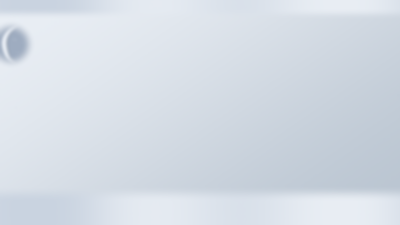
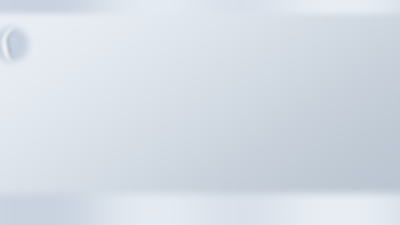
Keep pass 4's edge-independent fixes: crescent shoulder, pill fill, hover lift
The crescent gains 6 px through its lower third, its principal star grows to
22 px at full opacity, and the light sky core is #B4C2D4 at 70%. The search
button leaves its fill to the 14 px pill. Menus and dropdowns lift their rim
on hover; a glass dialog's shadow margin is click-through and its underlay
skips the foreground layer; the toast rail sits inside the well. The contrast
audit checks muted text at rest, hover, selected and pressed.

Pass 4's hand-tuned edge numbers are left out: the glass shader replaces them.

Changed region(s): [[0.0, 0.1244, 0.09, 0.28]]

diff --git a/scripts/gen_glass_assets.py b/scripts/gen_glass_assets.py
@@ -36,7 +36,10 @@ INNER = (106.5, 177.5, 76.5)
 TILT, BOX = 12.0, (8.0, 105.0, 74.0, 145.0)
 # Two four-point stars on the open side (tip to tip, peak opacity dark / light): the
 # principal one clearly larger, both with sharp tips.
-SPARKLES = [(58.0, 158.0, 16.0, 0.86, 0.95), (71.0, 210.0, 9.0, 0.64, 0.76)]
+SPARKLES = [(58.0, 158.0, 22.0, 1.0, 1.0), (71.0, 210.0, 9.0, 0.64, 0.76)]
+# The lower shoulder: up to 6 px more band on the concave side through the lower third,
+# tapering to nothing at both tips.
+LOWER_SHOULDER = 6.0
 # Fourteen point stars, 1-2 px: eight near the crescent, six in exposed perimeter space
 # (the left strip below the crescent, the top reveal, the right reveal). Clear of labels.
 NEAR = [(22, 84), (44, 96), (95, 128), (88, 170), (54, 252), (94, 236), (58, 270), (16, 284)]
@@ -44,7 +47,7 @@ PERIMETER = [(30, 340), (62, 430), (20, 540), (1594, 150), (1594, 380), (1594, 6
 COLORS = {
     "dark": dict(space="#080A0F", body="#B9C7D8", crest="#F2F6FC", inner="#334257",
                  star="#F2F6FC", far_star="#F2F6FC", alpha=(0.28, 0.52), tone=("#101721", "#374451")),
-    "light": dict(sky="#9EACC0", body="#EDF3FB", crest="#FFFFFF", inner="#657284",
+    "light": dict(sky="#B4C2D4", sky_max=0.70, body="#EDF3FB", crest="#FFFFFF", inner="#657284",
                   star="#FFFFFF", far_star="#4A5463", alpha=(0.44, 0.70), tone=("#E9EEF4", "#C9D3E0")),
 }
 
@@ -89,7 +92,11 @@ def fields(x, y):
     dx, dy = x - px, y - py
     sx = px + dx * np.cos(a) - dy * np.sin(a)
     sy = py + dx * np.sin(a) + dy * np.cos(a)
-    return orad - np.hypot(sx - ox, sy - oy), np.hypot(sx - ix, sy - iy) - irad
+    # Fuller through the lower third: the inner (shadow) disc gives way there, most at about
+    # two thirds down, nothing at either tip.
+    t = np.clip((sy - (oy - orad)) / (2 * orad), 0, 1)
+    shoulder = LOWER_SHOULDER * np.sin(np.pi * t) * smoothstep(0.30, 0.72, t) * (1 - smoothstep(0.86, 1.0, t))
+    return orad - np.hypot(sx - ox, sy - oy), np.hypot(sx - ix, sy - iy) - irad + shoulder
 
 
 def fit():
@@ -177,7 +184,7 @@ def backdrop(mode):
         img = tone(img, x, y, c)
         # A local sky round the crescent's centre, feathered from 45 to 95 px.
         sky = np.hypot(x - (BOX[0] + BOX[2] / 2), y - (BOX[1] + BOX[3] / 2))
-        img = over(img, 1 - smoothstep(45.0, 95.0, sky), lin(c["sky"]))
+        img = over(img, c["sky_max"] * (1 - smoothstep(45.0, 95.0, sky)), lin(c["sky"]))
     img, outer, inner = crescent(img, c)
     band = (outer > -1) & (inner > -1)
     stars = np.zeros((H, W))

diff --git a/src/cpp/lunarimgui.cpp b/src/cpp/lunarimgui.cpp
@@ -671,7 +671,16 @@ LRESULT CALLBACK popup_wndproc(HWND h, UINT m, WPARAM w, LPARAM l) {
     case WM_NCLBUTTONDOWN: case WM_NCRBUTTONDOWN: case WM_NCMBUTTONDOWN:
         event_src = p ? p->id : 0; push_event(11);   /* as the main window's frame does */
         return DefWindowProcW(h, m, w, l);
-    case WM_NCCALCSIZE: case WM_NCHITTEST: case WM_NCMOUSEMOVE: case WM_NCMOUSELEAVE:
+    case WM_NCHITTEST:
+        /* a glass dialog's shadow margin lets the mouse through to the page beneath */
+        if (p && p->underlay && p->inset > 0) {
+            POINT pt = {GET_X_LPARAM(l), GET_Y_LPARAM(l)}; ScreenToClient(h, &pt);
+            RECT c; GetClientRect(h, &c);
+            if (pt.x < p->inset || pt.y < p->inset || pt.x >= c.right - p->inset || pt.y >= c.bottom - p->inset)
+                return HTTRANSPARENT;
+        }
+        return DefWindowProcW(h, m, w, l);
+    case WM_NCCALCSIZE: case WM_NCMOUSEMOVE: case WM_NCMOUSELEAVE:
     case WM_NCLBUTTONUP: case WM_NCLBUTTONDBLCLK:
         return DefWindowProcW(h, m, w, l);
     }
@@ -1783,7 +1792,10 @@ void popup_render(Popup *p) {
         ImDrawData *main = ImGui::GetDrawData();
         ImVector<ImDrawList*> own = dd.CmdLists;
         dd.CmdLists.clear();
+        /* not the foreground layer: floating UI drawn there must not show under a dialog */
+        ImDrawList *front = g.lists.size() > 1 ? g.lists[1] : nullptr;
         if (main) for (ImDrawList *dl : main->CmdLists) {
+            if (dl == front) continue;
             dd.CmdLists.push_back(dl);
             dd.TotalVtxCount += dl->VtxBuffer.Size; dd.TotalIdxCount += dl->IdxBuffer.Size;
         }
@@ -2500,7 +2512,10 @@ int l_window(lua_State *L) {
     }
     if (is("popup_underlay")) {
         Popup *p = popup_by_id((int)luaL_checkinteger(L, 2));
-        if (p && !p->overlay) p->underlay = lua_toboolean(L, 3) != 0;
+        if (p && !p->overlay) {
+            p->underlay = lua_toboolean(L, 3) != 0;
+            p->inset = p->underlay ? (int)luaL_optinteger(L, 4, 0) : 0;   /* the click-through shadow margin */
+        }
         return 0;
     }
     if (is("popup_ready")) {
